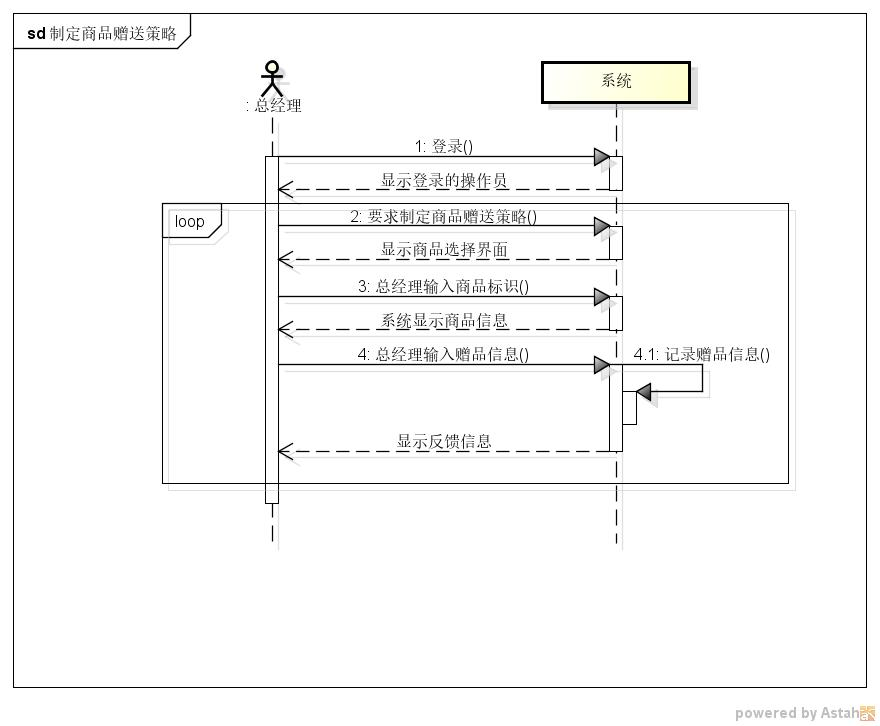
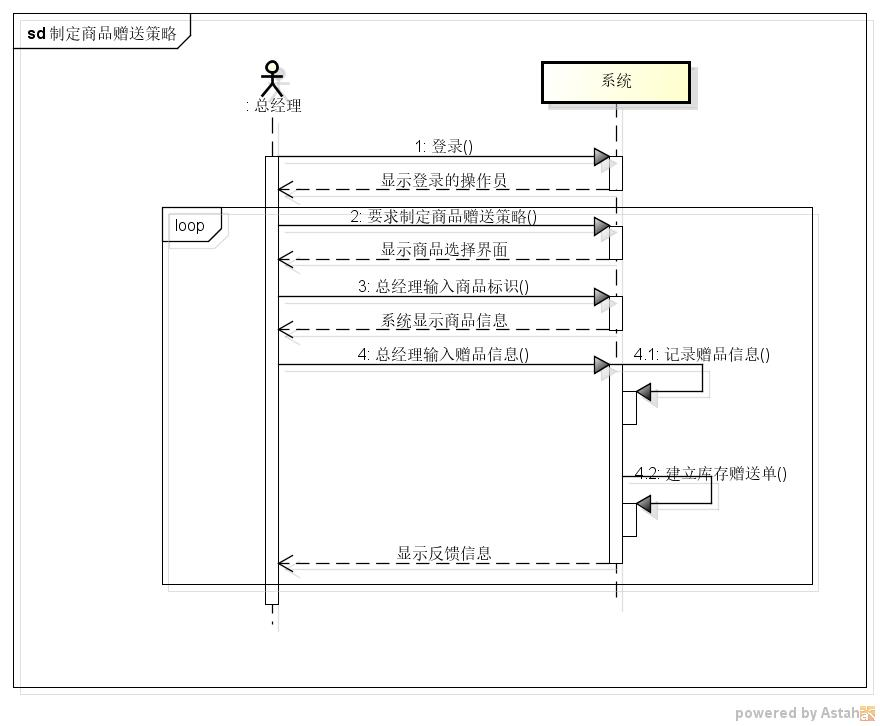
2017.9.17 用例文档，md文档，用例图更新

diff --git a/总经理 用例文档.md b/总经理 用例文档.md
@@ -11,22 +11,38 @@
 |前置条件|总经理已经被识别和授权|
 |后置条件|更改库存数据和客户的应收应付数据<br>发送消息给单据的负责人员</br>|
 |优先级|高|
-|正常流程|  |
-|扩展流程|  |
-|特殊要求|  |
+|正常流程|1、系统提示有提交状态的未处理的单据<br>2、总经理开始审批单据</br><br>3、系统显示需要被处理的单据列表，所有单据都有草稿状态，提交状态，审批后状态，系统需要显示所有的提交状态和审批后状态的单据列表</br><br>4、总经理选择待处理的单据</br><br>5、系统显示单据的所有数据</br><br>&emsp;A、库存赠送单的数据包括商品的**名称，型号，库存数量，赠送数量，库存均价，赠送总价**</br><br>&emsp;B、库存报溢单，库存报损单的数据包括商品的**名称，型号，实际数量，库存数量**</br><br>&emsp;C、库存报警单的数据包括商品的**名称，型号，库存数量，警戒数量**</br><br>&emsp;D、进货单，进货退货单的数据包括**单据编号，供应商，仓库，操作员，入库商品列表，备注，总额合计**</br><br>&emsp;E、销售单，销售退货单的数据包括**单据编号，客户，操作员，仓库，出货商品清单，折让前总额，折让，使用代金券金额，折让后总额，备注**</br><br>&emsp;&emsp;DE中入库和出库商品列表包含的信息有：商品编号，<u>名称（从商品选择界面进行选择）</u>，型号，<u>数量（手动输入）</u>，<u>单价（默认为商品信息中的进价）</u>，金额，<u>备注（手动输入）</u>。**没有下划线的部分是自动计算并填充进去的，自动修改**</br><br>&emsp;F、收款单，付款单的数据包括**单据编号，客户（同时包含供应商和销售商），操作员，转账列表，总额汇总**。转账列表中的一项包括：**银行账户，转账金额，备注**</br><br>&emsp;G、现金费用单的数据包括**单据编号，操作员，银行账户，条目清单，总额**。条目清单中包括：**条目名，金额，备注**</br><br>6、总经理修改单据数据</br><br>7、总经理通过单据审批</br><br>8、系统显示还需要审批的单据列表和已审批的单据列表</br><br>*总经理重复4~8步，直到审批完所有的单据*</br>|
+|扩展流程|7a、总经理不通过单据审批<br>&emsp; 审批后状态更改为“未通过”|
+|特殊要求|5.E、销售单，销售退货单中，**销售员最多折让1000元，销售经理可以折让5000元，总经理可以任意金额的折让**<br>7、总经理可以批量审批</br>|
 
-|ID |   |
+|ID||
 |:-|:-|
-|名称|    |
-|创建者|   |
-|创建日期|  |
-|最后一次更新者|   |
-|最后一次更新日期|  |
-|参与者|   |
-|触发条件|  |
-|前置条件|  |
-|后置条件|  |
-|优先级|   |
-|正常流程|  |
-|扩展流程|  |
-|特殊要求|  |
+|名称|报表查看|
+|创建者|张李承|
+|创建日期|2017.9.12|
+|最后一次更新者|张李承|
+|最后一次更新日期|2017.9.17|
+|参与者|财务人员，目的是了解商品的销售和经营情况<br>总经理，目的是了解商品的销售和经营情况，分析可能的意外情况</br>|
+|触发条件|总经理或者财务人员需要了解销售或经营情况|
+|前置条件|财务人员已经被识别的授权<br>总经理已经被识别和授权</br>|
+|后置条件|无|
+|优先级|低|
+|正常流程|1、经理查询报表情况<br>2、系统显示报表列表</br><br>3、经理输入筛选条件</br><br>4、系统显示符合筛选条件的报表列表</br><br>5、选择报表</br><br>6、系统显示报表的详细信息</br><br>经理重复4~6步，直到完成报表查看</br>|
+|扩展流程|7.0、经营历程表的红冲操作<br>&emsp;**红冲**的具体操作就是：生成一个一模一样但是仅仅把数量取负数的单子并入账，以此来抵消之前的单子。</br><br>7.1、经营历程表的红冲并复制操作</br><br>&emsp;**红冲并复制**的操作是在红冲的基础上，新建一张以之前单子为模板的草稿单，给用户以编辑的机会</br><br>7.2、导出表单</br>|
+|特殊要求|2、报表类型分为**销售明细表，经营历程表，经营情况表**<br>&emsp;**2a、销售明细表：**</br><br>&emsp;&emsp;统计一段时间内商品的销售情况（应该就是查询销售出货单据记录）</br><br>&emsp;**2b、经营历程表：**</br><br>&emsp;&emsp;查看一段时间里的所有单据</br><br>&emsp;&emsp;单据分为：</br><br>&emsp;&emsp;1、销售类单据（销售出货单，销售退货单）</br><br>&emsp;&emsp;2、进货类单据（进货单，进货退货单）</br><br>&emsp;&emsp;3、财务类单据（付款单，收款单，现金费用单）</br><br>&emsp;&emsp;4、库存类单据（报溢单，报损单，赠送单）</br><br>&emsp;**2c、经营情况表：**</br><br>&emsp;&emsp;统计显示一段时间内的经营收支状况和利润。</br><br>&emsp;&emsp;经营收入显示为折让后，并显示出折让了多少。</br><br>&emsp;&emsp;**显示信息：**</br><br>&emsp;&emsp;&emsp;**2c.1、收入类：销售收入、商品类收入**（商品报溢收入 成本调价收入 进货退货差价 代金券与实际收款差额收入）。收入类显示**折让后总收入**，并显示折让了多少</br><br>&emsp;&emsp;&emsp;**2c.2、支出类：销售成本、商品类支出**（商品报损 商品赠出）。支出类显示**总支出**</br><br>&emsp;&emsp;&emsp;**2c.3、利润：折让后总收入-总支出**</br><br>3、筛选条件</br><br>&emsp;**3a、销售明细表筛选条件有：**</br><br>&emsp;&emsp;**时间区间，商品名，客户，业务员，仓库**</br><br>&emsp;&emsp;显示符合上述条件的商品销售记录，以列表形式显示，列表中包含如下信息：</br><br>&emsp;&emsp;**时间（精确到天），商品名，型号，数量，单价，总额**</br><br>&emsp;**3b、经营历程表筛选条件为：**</br><br>&emsp;&emsp;**时间区间，单据类型，客户，业务员，仓库**</br><br>7、经营里程表的红冲和红冲并复制操作只能由财务人员进行，总经理无权限进行</br>|
+
+|ID||
+|:-|:-|
+|名称|指定促销策略|
+|创建者|张李承|
+|创建日期|2017.9.12|
+|最后一次更新者|张李承|
+|最后一次更新日期|2017.9.12|
+|参与者|总经理，目标是根据最新的时长状况调整销售商品|
+|触发条件|商品厂家提出自己商品的促销要求；节假日或者竞争促销；提前处理有可能会报废的商品；去除现有的销售策略|
+|前置条件|总经理已经被识别和授权|
+|后置条件|记录销售策略信息<br>建立库存赠送单</br>|
+|优先级|中|
+|正常流程|**1.0商品赠送策略**<br>1、总经理输入商品标识（在商品选择界面进行操作）</br><br>2、系统显示商品信息，包括商品标识、描述和价格</br><br>3、总经理输入赠品信息，包括赠送条件（消费金额和用户级别）、开始日期和结束日期</br><br>4，系统显示赠品商品列表，包括商品标识、描述、价格、赠送条件、开始日期和结束日期</br><br>总经理重复1~4步，直到输入所有商品赠送策略</br>|
+|扩展流程|1a、非法标识<br>&emsp;1、系统提示错误并拒绝输入</br><br>3a、在期间内该商品已有相同的赠送策略</br><br>&emsp;1、系统提示已设置赠送策略并拒绝输入</br><br>4a、总经理要移除已输入的商品赠送策略</br><br>&emsp;1、总经理输入商品标识</br><br>&emsp;2、系统移除该商品的赠送策略</br><br>**1.1价格折让策略**<br>1，总经理输入价格折让信息，包括额度、条件（消费金额和用户级别）、开始日期和结束日期</br><br>&emsp;1a、在期间内已有相同条件的折让策略</br><br>&emsp;&emsp;1、系统提示已有折让策略并拒绝输入</br><br>2，系统显示价格折让列表，包括额度、条件、开始日期和结束日期</br><br>&emsp;2a、总经理要求移除已输入的价格折让策略</br><br>&emsp;&emsp;1、总经理输入额度</br><br>&emsp;&emsp;2、系统移除该额度的特价信息</br><br>总经理重复1\~4步，直到输入所有的价格折让策略</br><br>**1.2赠送代金券**</br><br>1，总经理输入赠送代金券信息，包括代金券金额、条件（消费金额和用户级别）、开始日期和结束日期</br><br>&emsp;1a、在期间已有相同条件的赠送代金券</br><br>&emsp;&emsp;1、系统提示已有赠送代金券并拒绝输入</br><br>2，系统显示赠送代金券列表，包括代金券金额、条件、开始日期和结束日期</br><br>&emsp;2a、总经理要移除已输入的赠送代金券</br><br>&emsp;&emsp;1、总经理输入代金券金额</br><br>&emsp;&emsp;2、系统移除该金额的赠送代金券</br><br>总经理重复1\~2步，知道输入所有的赠送代金券策略</br><br>**1.3特价包（组合商品降价）**</br><br>1、系统显示商品信息，包括商品标识、描述和价格</br><br>2、总经理选择组合商品</br><br>&emsp;2a、在期间已有相同的特价包组合</br><br>&emsp;&emsp;1、系统提示已有相同的特价包组合并拒绝输入</br><br>3、总经理输入组合商品特价信息，包括特价，开始日期和结束日期</br><br>&emsp;3a、总经理要移除已输入的特价包</br><br>&emsp;&emsp;1、总经理选择组合商品</br><br>&emsp;&emsp;2、系统移除该特价包</br><br>4，系统显示特价包商品列表，包括商品列表，价格、特价、开始日期和结束日期</br><br>总经理重复1~4步，直到输入所有特价包策略</br>|
+|特殊要求|1.0商品赠送策略和1.2赠送代金券可以指定**针对不同用户和针对不同总价**|
